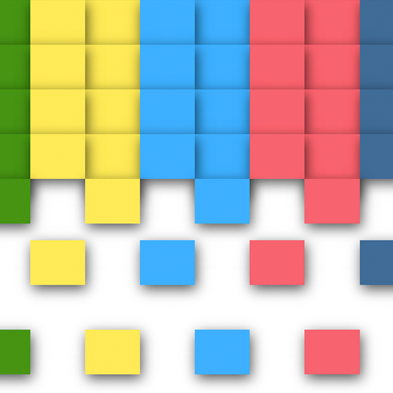
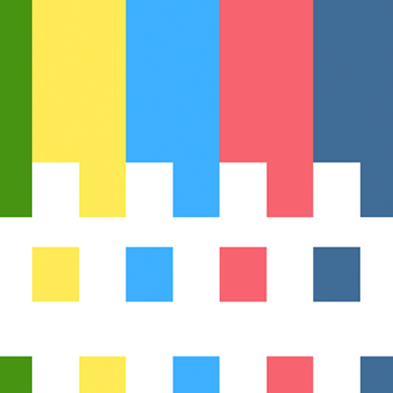
Remove shadow from performance example

diff --git a/gh-pages/example/css/performance.css b/gh-pages/example/css/performance.css
@@ -26,12 +26,6 @@ body {
   float: left;
 }
 
-.light-blue, .dark-blue, .brown, .red, .yellow, .green {
-  -webkit-box-shadow: 3px 7px 35px 0px rgba(0,0,0,0.75);
-  -moz-box-shadow: 3px 7px 35px 0px rgba(0,0,0,0.75);
-  box-shadow: 3px 7px 35px 0px rgba(0,0,0,0.75);
-}
-
 .light-blue {
   background-color: #35a7ff;
 }
